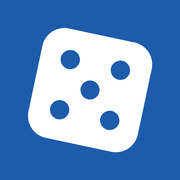
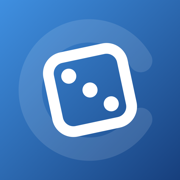
Nouvelle icône (famille visuelle commune) (v1.0.4)

diff --git a/sw.js b/sw.js
@@ -1,6 +1,6 @@
 // Service worker : garde l'application disponible hors connexion.
 // Change VERSION à chaque mise en ligne pour forcer la mise à jour.
-const VERSION = "nsj-1.0.3";
+const VERSION = "nsj-1.0.4";
 const SHELL = [
   "./", "./index.html", "./css/app.css", "./manifest.webmanifest",
   "./js/app.js", "./js/config.js", "./js/util.js", "./js/icons.js", "./js/stats.js",

diff --git a/js/app.js b/js/app.js
@@ -10,7 +10,7 @@ import {
   globalStats, gameStats, playerStats, filterPlays, PERIODS, autoRanks, isComp, MIN_SAMPLE, monthsBack,
 } from "./stats.js";
 
-const VERSION = "1.0.3 (lot 1)";
+const VERSION = "1.0.4 (lot 1)";
 const $ = (s, root = document) => root.querySelector(s);
 const $$ = (s, root = document) => [...root.querySelectorAll(s)];
 
